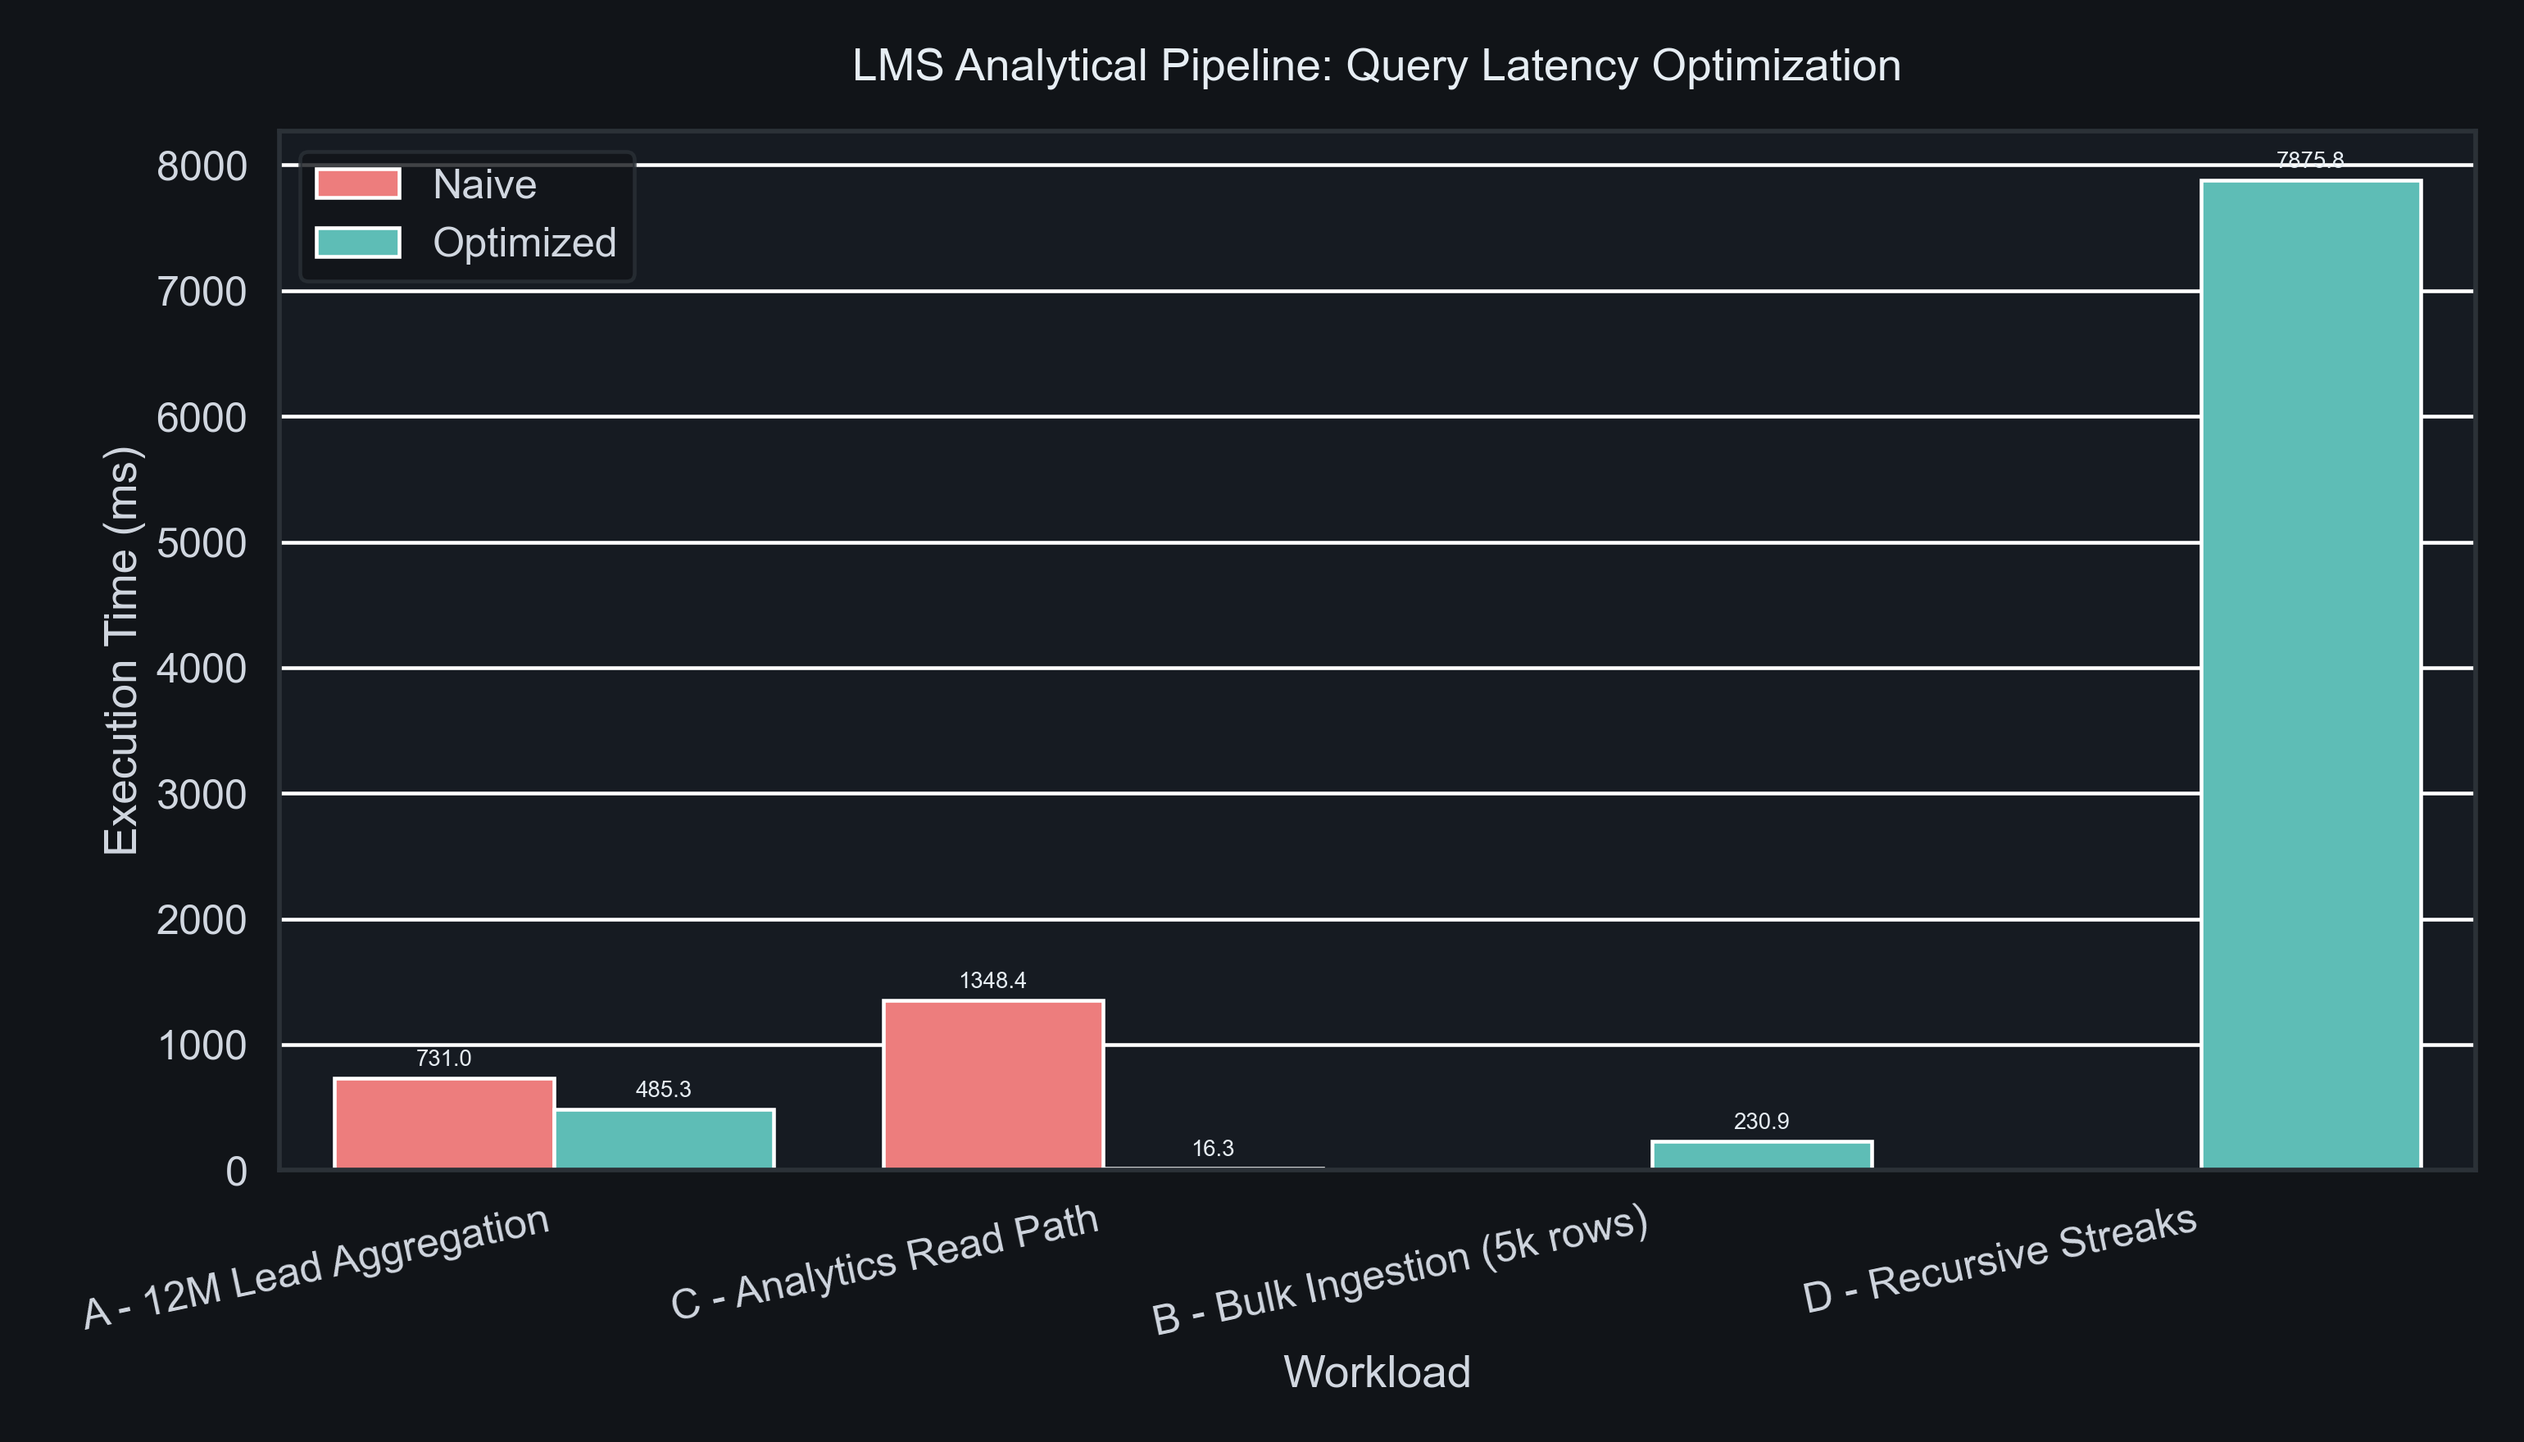
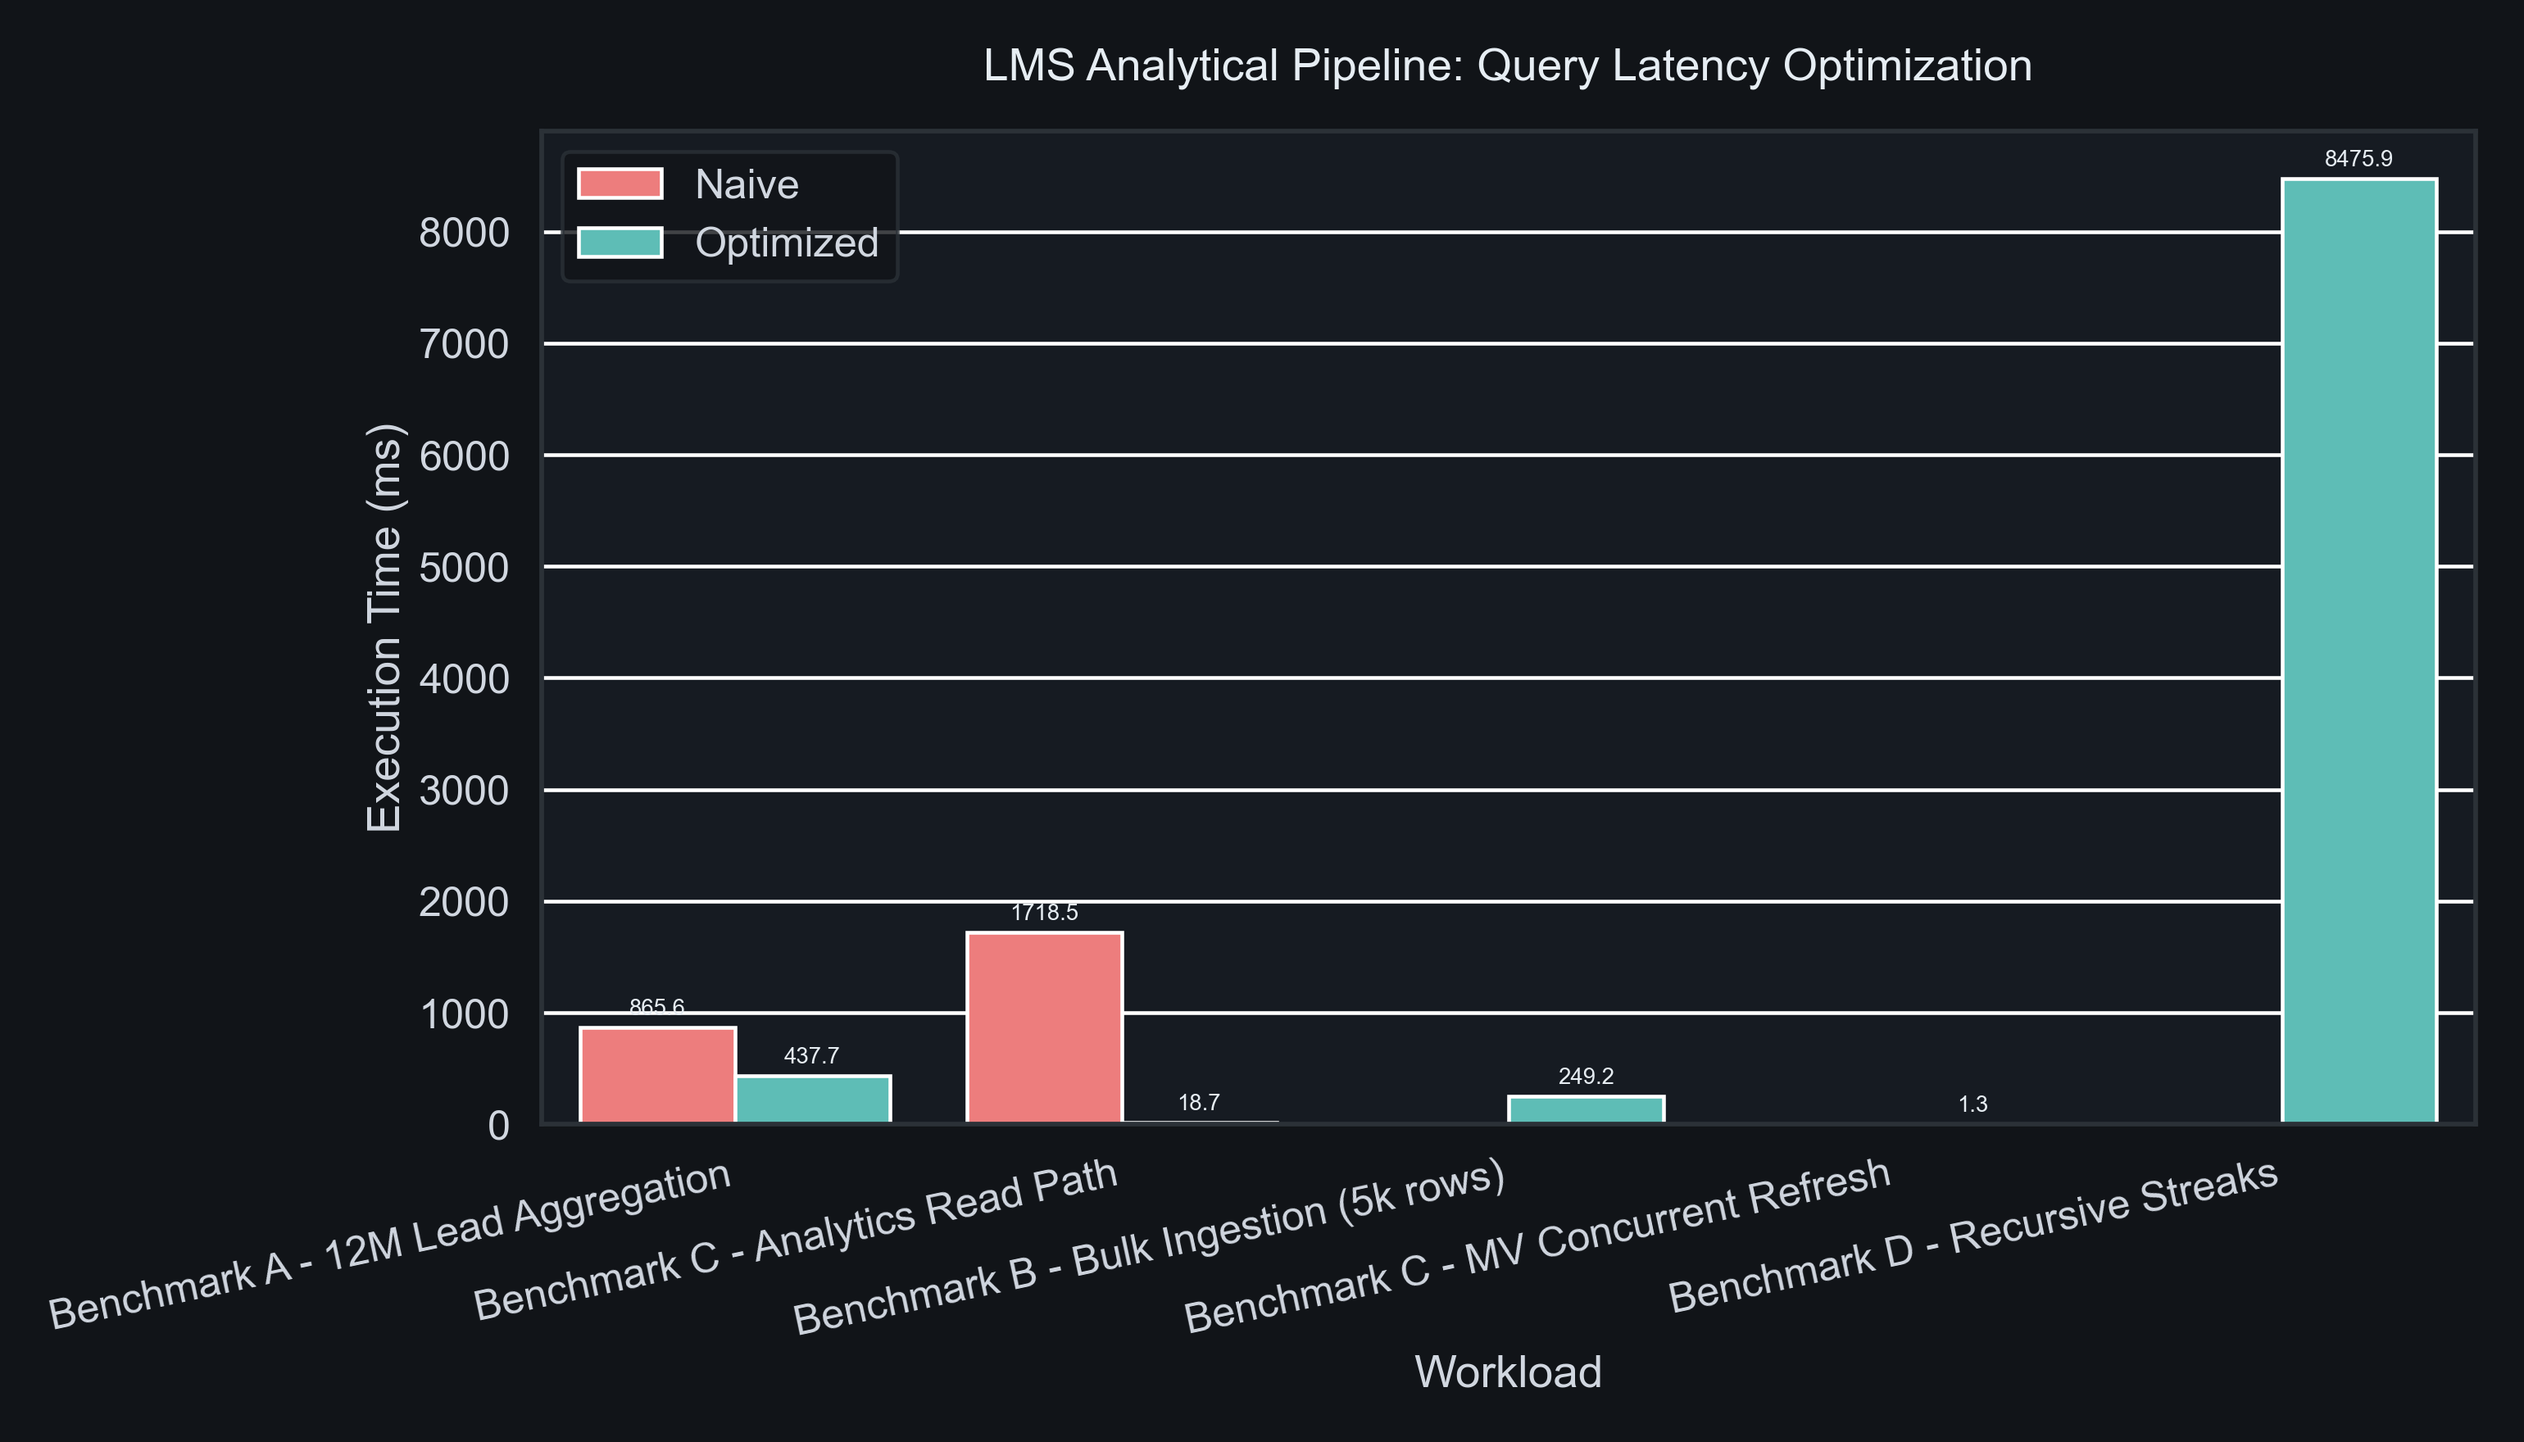
Fix notebook DB resolution and rerun full benchmark workflow

diff --git a/docs/live_benchmark_results.md b/docs/live_benchmark_results.md
@@ -4,12 +4,8 @@
 
 | Benchmark | Naive (ms) | Optimized (ms) | Improvement |
 |---|---:|---:|---:|
-| Benchmark A - 12M Lead Aggregation | 731.001 | 485.330 | 33.61% |
-| Benchmark B - Bulk Ingestion (5k rows) | N/A | 230.877 | N/A |
-| Benchmark C - Analytics Read Path | 1348.441 | 16.319 | 98.79% |
-| Benchmark C - MV Concurrent Refresh | N/A | 1.278 | N/A |
-| Benchmark D - Recursive Streaks | N/A | 7875.846 | N/A |
-
-Moving from repeated monthly query dispatch in the N+1 aggregation loop to a single cursor-backed grouped execution shifted planning from repeated index-access cycles toward one consolidated aggregate path, reducing transfer and compute latency by 33.61%.
-
-For analytics, replacing repeated live window aggregation over daily_activity_logs with reads from a precomputed materialized surface eliminated heavy per-request aggregation work and reduced read latency by 98.79% while preserving concurrent refresh semantics.
+| Benchmark A - 12M Lead Aggregation | 865.565 | 437.740 | 49.43% |
+| Benchmark B - Bulk Ingestion (5k rows) | N/A | 249.247 | N/A |
+| Benchmark C - Analytics Read Path | 1718.528 | 18.705 | 98.91% |
+| Benchmark C - MV Concurrent Refresh | N/A | 1.336 | N/A |
+| Benchmark D - Recursive Streaks | N/A | 8475.884 | N/A |
